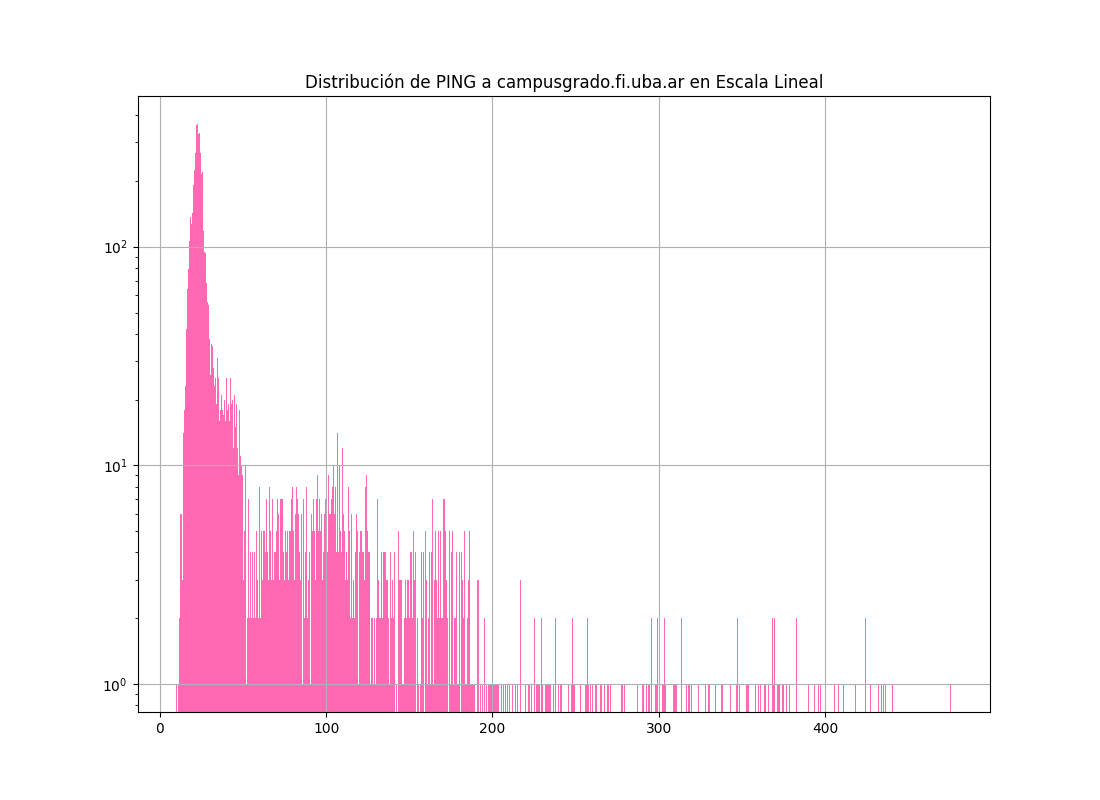
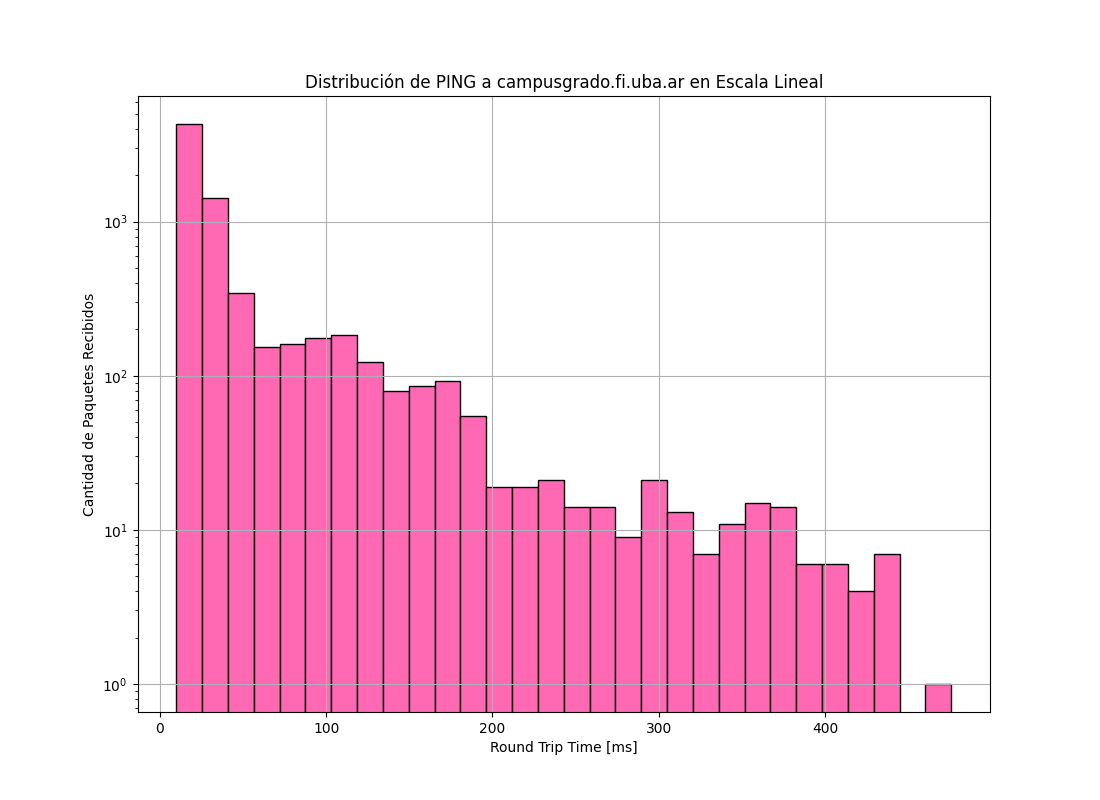
cambio el grafico log log

diff --git a/ping/process_ping.py b/ping/process_ping.py
@@ -1,11 +1,12 @@
 import matplotlib.pyplot as plt
+import numpy as np
 
 CAMPUS = "campusgrado.fi.uba.ar"
 CAMPUS_FILENAME = "campus"
 GOOGLE = "google.com.ar"
 GOOGLE_FILENAME = "google"
 
-PATH = "/Users/cdimatteo/Documents/FIUBA/Introducción a los Sistemas Distribuidos (75.43)/ping/"
+PATH = "/Users/cdimatteo/Documents/FIUBA/Introduccion-a-los-Sistemas-Distribuidos-75.43/ping/"
 PING_RESULT_LENGTH = 14
 STATICS_RESULT_LENGTH = 15
 DATE_INITIAL_POS = 0
@@ -46,36 +47,34 @@ def read_output(path: str) -> tuple[str, dict]:
     
     return ip_address, output
 
-def plot_output(x, y, host_pinged, file_name) -> None:
+def plot_hist(y, host_pinged, path):
     plt.clf()
     plt.figure(figsize=(11,8))
     plt.grid(True)
-    plt.hist(y, bins=1000, alpha=1, log=True, color="hotpink")
+    plt.hist(y, bins=30,  log=True, color="hotpink", edgecolor="black", linewidth=1)
+    plt.ylabel("Cantidad de Paquetes Recibidos")
+    plt.xlabel("Round Trip Time [ms]")
     plt.title(f"Distribución de PING a {host_pinged} en Escala Lineal")
     plt.autoscale(True)
-    plt.savefig(PATH + file_name + "_lineal")
+    plt.savefig(path + "_lineal")
 
+def plot_loglog(x, y, host_pinged, path):
     plt.clf()
     plt.figure(figsize=(11,8))
     plt.grid(True)
-    plt.loglog(x, y, color="mediumorchid")
+    plt.hist(y, bins=30,  log=True, color="hotpink", edgecolor="black", linewidth=1)
+    plt.xscale("log")
+    plt.yscale("log")
+    plt.ylabel("Cantidad de Paquetes Recibidos")
+    plt.xlabel("Round Trip Time [ms]")
     plt.title(f"Distribución de PING a {host_pinged} en Escala Log-Log")
     plt.autoscale(True)
-    plt.savefig(PATH + file_name + "_loglog")
+    plt.savefig(path + "_loglog")
 
-def plot_both_log_log(x_campus, y_campus, x_google, y_google) -> None:
-    file_path = PATH + CAMPUS_FILENAME + "_" + GOOGLE_FILENAME
+def plot_output(x, y, host_pinged, file_name) -> None:
+    plot_hist(y, host_pinged, PATH + file_name)
 
-    plt.clf()
-    plt.figure(figsize=(9,6))
-    plt.grid(True)
-    plt.loglog(x_campus, y_campus, color="darkorange", label="campus")
-    plt.loglog(x_google, y_google, color="lightseagreen", label="google")
-    plt.title(f"Distribución de PING a {CAMPUS} y {GOOGLE} en Escala Log-Log")
-    plt.autoscale(True)
-    plt.legend()
-    plt.savefig(file_path + "_loglog")
-
+    plot_loglog(x, y, host_pinged, PATH + file_name)
 
 def get_x_y(output):
     y = list(map(lambda l: l[1], output.values()))
@@ -92,7 +91,5 @@ def main():
     ip_address, output_google = read_output(PATH + GOOGLE_FILENAME + ".txt")
     x_google, y_google = get_x_y(output_google)
     plot_output(x_google, y_google, GOOGLE, GOOGLE_FILENAME)
-
-    plot_both_log_log(x_campus, y_campus, x_google, y_google)
 
 main()
